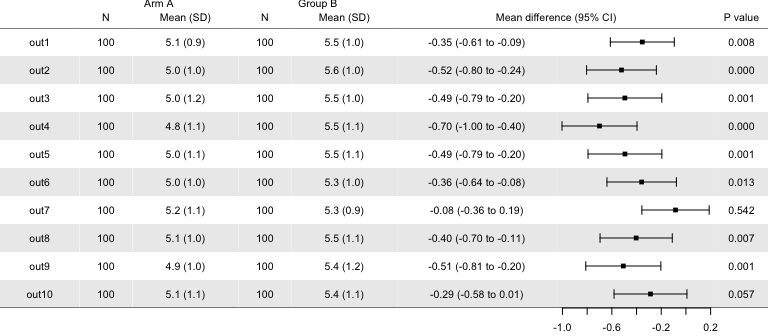
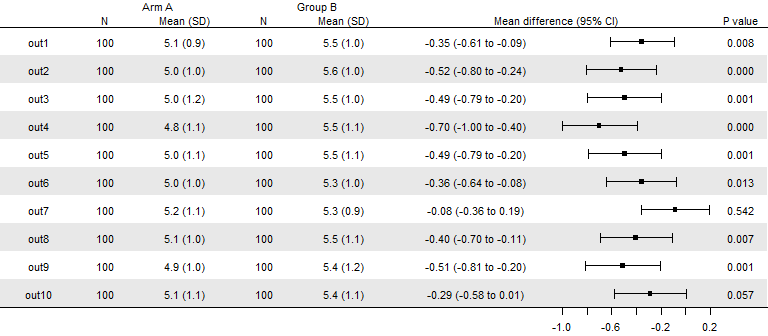
stripes and gridlines
add item option to stripes and header_stripes
add function header_gridlines

diff --git a/README.md b/README.md
@@ -48,11 +48,11 @@ fobj <- genfobj(dat = forplotdata,
   gridlines() |> 
   header(headernr = 1, 
          hlayout = c(1,2,2,3,3,4,4,4),
-         labels = c("", "Arm A", "Group B", ""), y = .9) |> 
+         labels = c("", "Arm A", "Group B", ""), y = .8) |> 
   header(headernr = 2, 
          hlayout = c(1,2,3,4,5,6,6,7),
          labels = c("", "N", "Mean (SD)", "N", "Mean (SD)", 
-                    "Mean difference (95% CI)", "P value"), y = .4)
+                    "Mean difference (95% CI)", "P value"), y = .3)
 
 plotfobj(fobj)
 ```

diff --git a/NEWS.md b/NEWS.md
@@ -1,3 +1,8 @@
+forplot 3.4.0
+------------------
+add item option to stripes and header_stripes
+add function header_gridlines
+
 forplot 3.3.1
 ------------------
 rename header_bg to header_stripes
